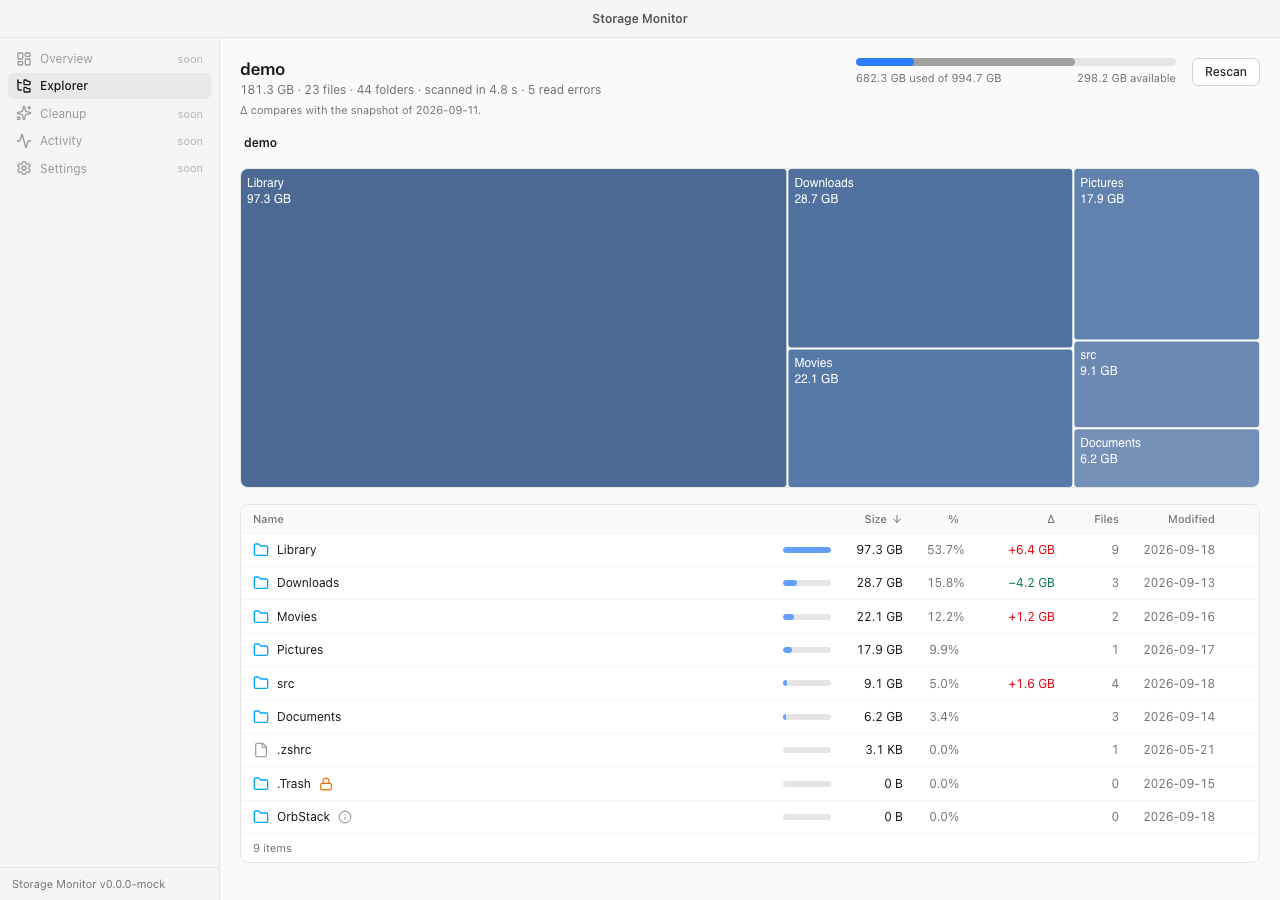
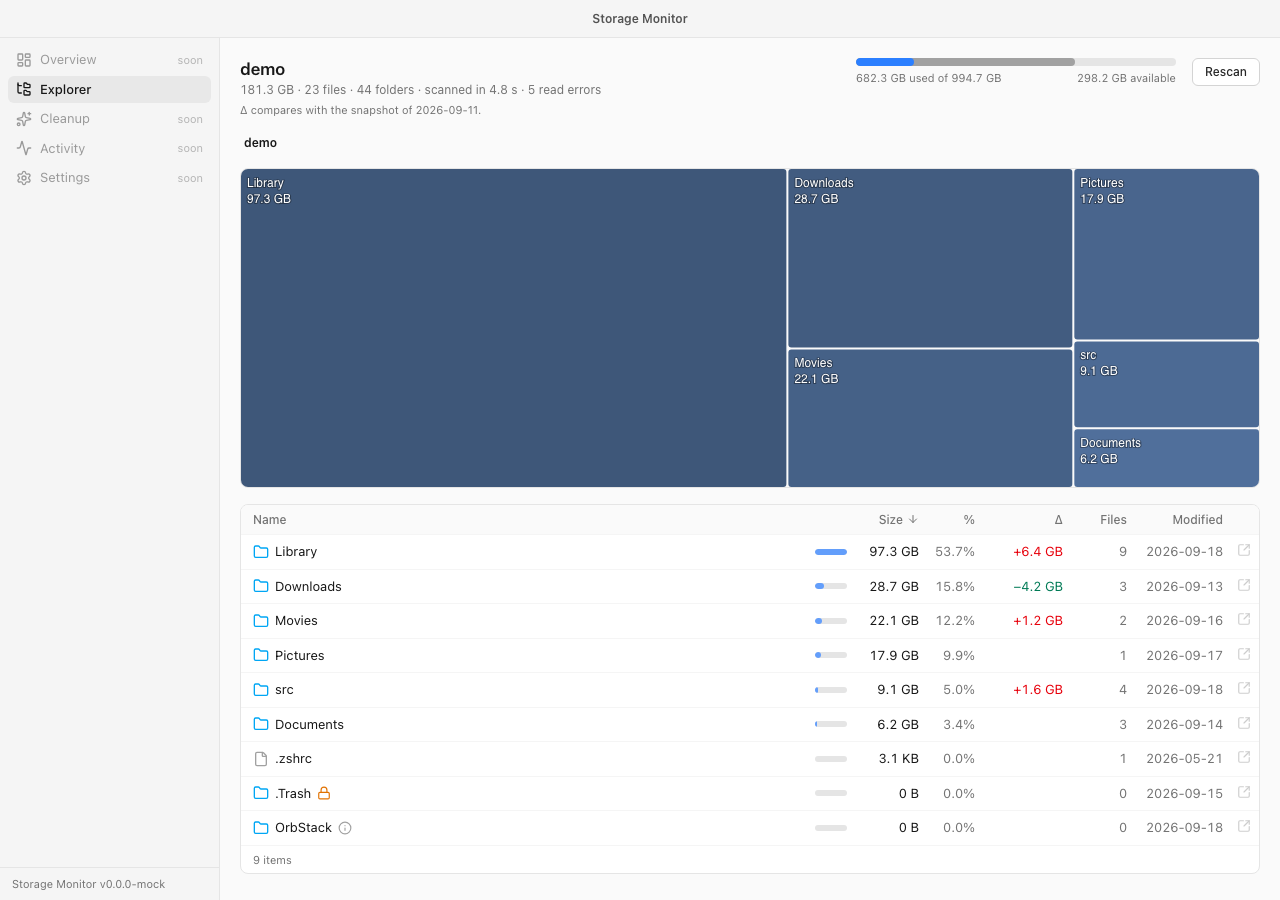
style(desktop): theme-neutral treemap gaps and refreshed README screenshot

diff --git a/apps/desktop/src/components/Treemap.tsx b/apps/desktop/src/components/Treemap.tsx
@@ -151,6 +151,18 @@ function buildOption(cells: Cell[], parentSize: number): TreemapOption {
         right: 0,
         bottom: 0,
         sort: 'desc',
+        // The root level paints the gaps between cells; keep it transparent so they
+        // show the page background in both colour schemes.
+        levels: [
+          {
+            itemStyle: {
+              color: 'transparent',
+              borderColor: 'transparent',
+              borderWidth: 0,
+              gapWidth: 2,
+            },
+          },
+        ],
         itemStyle: { borderWidth: 0, gapWidth: 2, borderRadius: 3 },
         label: {
           show: true,
